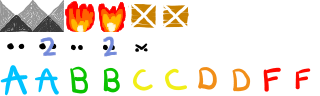
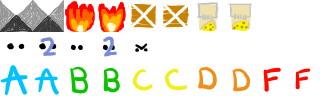
🐭 Added a rat trap to the game and modified the scope.

Changed region(s): [[0.5938, 0.0, 0.6875, 0.3438], [0.7188, 0.0312, 0.8125, 0.3438]]

diff --git a/src/constants.js b/src/constants.js
@@ -22,6 +22,7 @@ const sprites = {
   WALL: [0, 0],
   KILL: [2, 0],
   PUSH: [4, 0],
+  TRAP: [6, 0],
   GRADE_A: [0, 2],
   GRADE_B: [2, 2],
   GRADE_C: [4, 2],
@@ -36,7 +37,7 @@ const pictures = {
   ZAID: [0, 3]
 }
 
-const type_list = ["CAT", "RAT", "DEVIL", "WALL", "KILL", "PUSH"];
+const type_list = ["CAT", "RAT", "DEVIL", "WALL", "KILL", "PUSH", "TRAP"];
 
 const types = {
   EMPTY: 0,

diff --git a/src/player.js b/src/player.js
@@ -62,6 +62,9 @@ function moveCatNRat(_dir){
         if(e.x == tCat.x && e.y == tCat.y){ kill[0] = true; }
         if(e.x == tRat.x && e.y == tRat.y){ kill[1] = true; }
         break;
+      // Fail the level if the rat falls into a trap
+      case types.TRAP:
+        if(e.x == tRat.x && e.y == tRat.y){ kill[1] = true; }
     }
   }
 

diff --git a/README.md b/README.md
@@ -2,15 +2,17 @@
 A game I'm making for no reason.
 
 ### Description
-*A turn and grid based maze game where you must feed the rat to the cat by getting them both on the same grid cell. The grid is 16x12 cells large. You move the cat using WASD controls in rogue-like turn based movement and the rat moves in the opposite direction of the cat. In some levels there will be a devil which will seek out the closest animal (the cat or the rat) with a preference for the cat since it is larger, moving 1 cell per-turn. If the devil touches one of them, it will kill them. If either the cat or the rat dies, the level will be failed.*
+*A turn and grid based maze game where you must feed the rat to the cat by getting them both on the same grid cell. The grid is 16x12 cells large. You move the cat using WASD controls in rogue-like turn based movement and the rat moves in the opposite direction of the cat. ~~In some levels there will be a devil which will seek out the closest animal (the cat or the rat) with a preference for the cat since it is larger, moving 1 cell per-turn. If the devil touches one of them, it will kill them.~~ If either the cat or the rat dies, the level will be failed.*
 
 ### Mechanics
 * [X] __WALL__: Stops the cat and the rat from moving into the same cell as it.
 * [X] __KILL__: Kills the cat or the rat if one of them are in the same cell as it.
 * [X] __PUSH__: A wall entity that can be pushed by the cat but not by the rat.
-* [ ] __SWAP__: A cell which swaps the positions of the cat and the rat when touched by one of them.
-* [ ] __PORTAL__: Two linked entities that either the cat or the rat will warp to when touched.
+* ~~[ ] __SWAP__: A cell which swaps the positions of the cat and the rat when touched by one of them.~~
+* ~~[ ] __PORTAL__: Two linked entities that either the cat or the rat will warp to when touched.~~
 * [ ] __GATE&KEY__: A wall cell that is deleted when a linked key entity is brought to it.
+* [ ] __MOUSEHOLE__: A wall block with a small hole in it the rat can pass through but the cat cannot.
+* [X] __RATTRAP__: A trap which only kills the rat, not the cat.
 
 ### Screens
 * [X] __Level__: The actual game. (Pause menu should be included here. Keep it to just exiting the level.)
